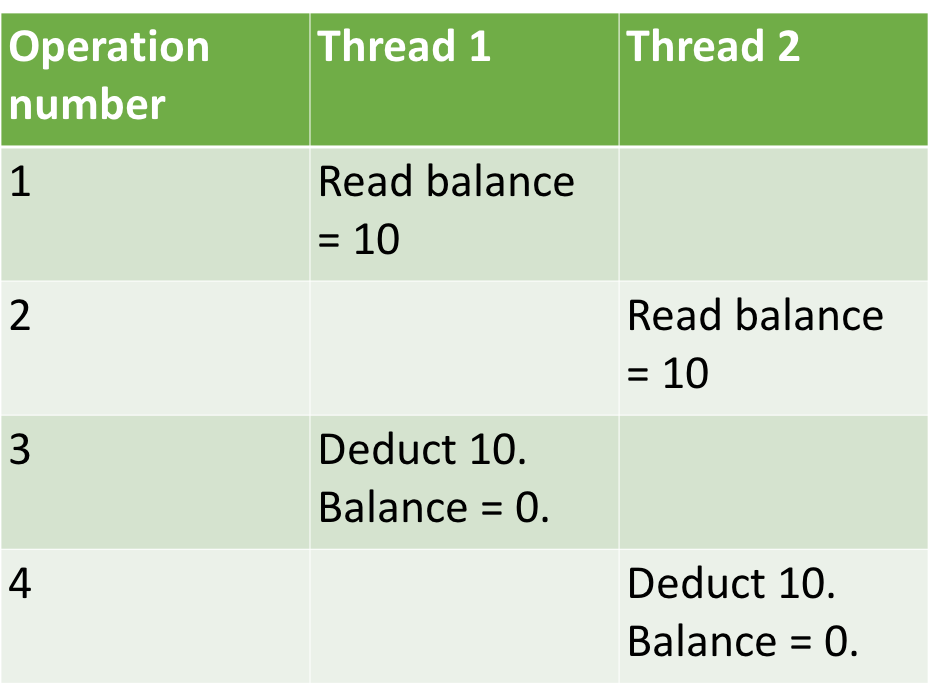
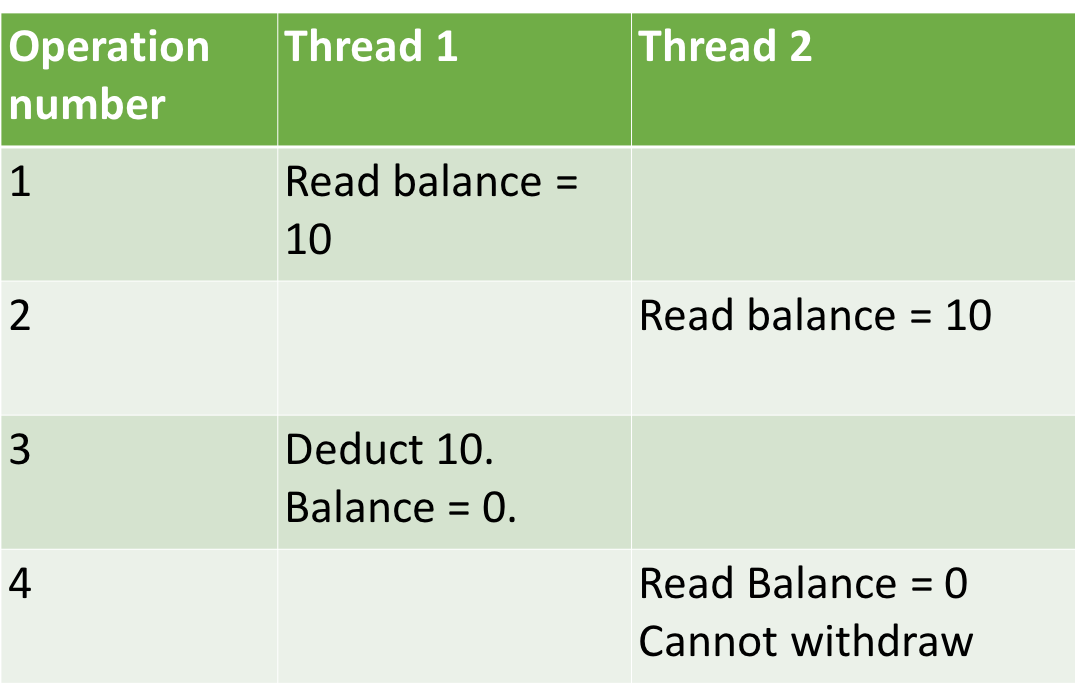
post 16 review

diff --git a/src/posts/016_SynchronizedThreads.md b/src/posts/016_SynchronizedThreads.md
@@ -14,7 +14,7 @@ tags:
 <strong>Key Takeaways</strong><br>
 &#8226; Understand how a race condition can arise in a multi-threaded application.<br>
 &#8226; Use Atomic values to create thread-safe variables.<br>
-&#8226; Use Synchronized blocks to control accessibility of code blocks to threads.<br>
+&#8226; Use Synchronized blocks to control the accessibility of code blocks to different threads.<br>
 
 <br>
 <h4>What is a race condition in multi-threading?</h4>
@@ -43,18 +43,18 @@ Each thread will read the bank balance as containing a sufficient amount, howeve
 
 <p>
 The diagram above illustrates how both threads record the balance and make the withdrawal against the balance.<br>
-The race condition occurs as the outcome of the transaction is deterministic upon the thread speeds synchronization with each other.
+The race condition occurs as the outcome of the transaction is deterministic upon the thread speed and timing between each other.
 </p>
 <br>
 <h4>The possible stateful outcomes</h4>
 <p>
-The outcome from the scenario can be one of three:<br>
+The outcome from the bank account scenario with two threads can be any of following three:<br>
 1. Thread 1 can spend the money and Thread 2 is not able to.<br>
 2. Thread 2 can spend the money and Thread 1 is not able to.<br>
 3. Thread 1 and Thread 2 can spend the money, thus causing the account to become overdrawn.<br>
 </p>
 <p>
-To implement the race condition, I will create a BankAccount class with a withdraw method.<br> 
+The race condition is implemented below with a BankAccount class with a withdraw method.<br> 
 The below code sample enables a race condition to occur:
 
 ```java{numberLines:true}
@@ -115,7 +115,7 @@ main has withdrawn 10. New balance: 0
 <br>
 <h4>Introducing latency and a possible race condition</h4>
 <p>
-The current execution of the single thread acts as expected as the <code>withdraw()</code> method is only called once at any one time. Latency can be introduced into the application by using the <code>wait()</code> method which causes all threads to stop before continuing. The <code>withdraw()</code> method must be marked within a synchronized block to ensure only one thread accesses the method at a single time.
+The current execution of the single thread behaves as expected as the <code>withdraw()</code> method is only called once at any one time. Latency can be introduced into the application by using the <code>wait()</code> method which causes all threads to stop before continuing. The <code>withdraw()</code> method must be marked within a synchronized block to ensure only one thread accesses the method at a single time.
 </p>
 <p>
 The following update to the <code>withdraw()</code> method will cause the threads to check the balance, wait for each other, then to complete the transaction. As a result, each thread will read in the opening balance before making a transaction against the balance:
@@ -177,7 +177,7 @@ pool-1-thread-5 has withdrawn 10. New balance: 0
 ```
 </p>
 <p>
-The threads all read in the balance together, then reduce the balance one, by one. <br>
+Each thread reads in the balance as 50. Each thread will then assume the balance remains at 50 and makes the withdrawal of 10. <br>
 The class appears to be thread-safe as the balance is reduced as expected, however if we introduce a 6th thread on line 4 of the test, the account becomes overdrawn:
 </p>
 
@@ -228,7 +228,7 @@ The table below illustrates how the threads will obtain the value and perform th
 
 <p>
 Atomic variables within Java provide variables that are updated across all threads of the application at the same time.
-An atomic value in this context is useful to ensure all the threads can see the latest balance before making a transaction. This way, the if statement will be applied to the most up-to-date value of the balance. The BankAccount is updated to use AtomicIntegers accordingly:
+An atomic value in this context is useful to ensure all the threads can see the latest balance before making a transaction. This way, the if statement will be applied to the most up-to-date value of the balance. The BankAccount is updated to use AtomicInteger accordingly:
 </p>
 
 ```java{numberLines:true}
@@ -286,10 +286,10 @@ pool-1-thread-1 is unable to  withdraw 10 from a balance of 0
 <h4>Conclusion</h4>
 <p>
 Multi-threading allows our code to utilise the multiple cores of the CPU. The danger of multi-threading however leads to potential errors of visibility and synchronisation between the threads, one of which is known as race condition.<br>
-The synchronized keyword in Java allows a thread to obtain a key to a code block or method during its execution to ensure no other thread is able to access the code at the same time. The concurrent.atomic package in Java includes different Atomic variables that provide cross-thread visibility to a shared value.
+The <i>Synchronized</i> keyword in Java allows a thread to obtain a key to a code block or method during its execution to ensure no other thread is able to access the code at the same time. The concurrent.atomic package in Java includes different Atomic variables that provide cross-thread visibility to a shared value.
 </p>
 <p>
-The Atomic package and synchronized keyword are common tools that enforce an element of determinism about a multi-threaded application. These tools enable execution order to be achieved and cached memory to be shared to eliminate non-deterministic behaviour within their domains.
+The Atomic package and Synchronized keyword are useful tools that assert an element of determinism about a multi-threaded application. These tools enable execution order to be achieved and cached memory to be shared between threads to reduce non-deterministic behaviour within their domains.
 </p>
 <br>
 <small style="float: right;" >Picture: Williamsburg, United States by <a target="_blank" href="https://unsplash.com/@benst287">Ben Stern</small></a><br>
